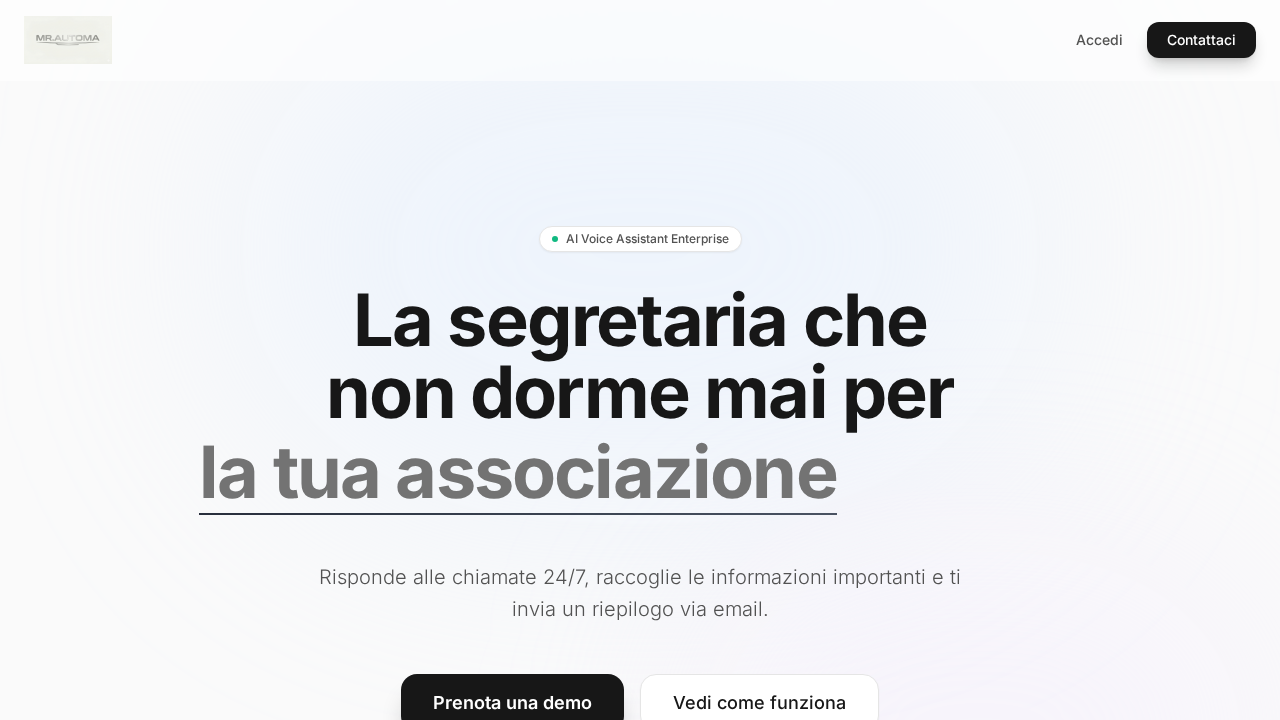
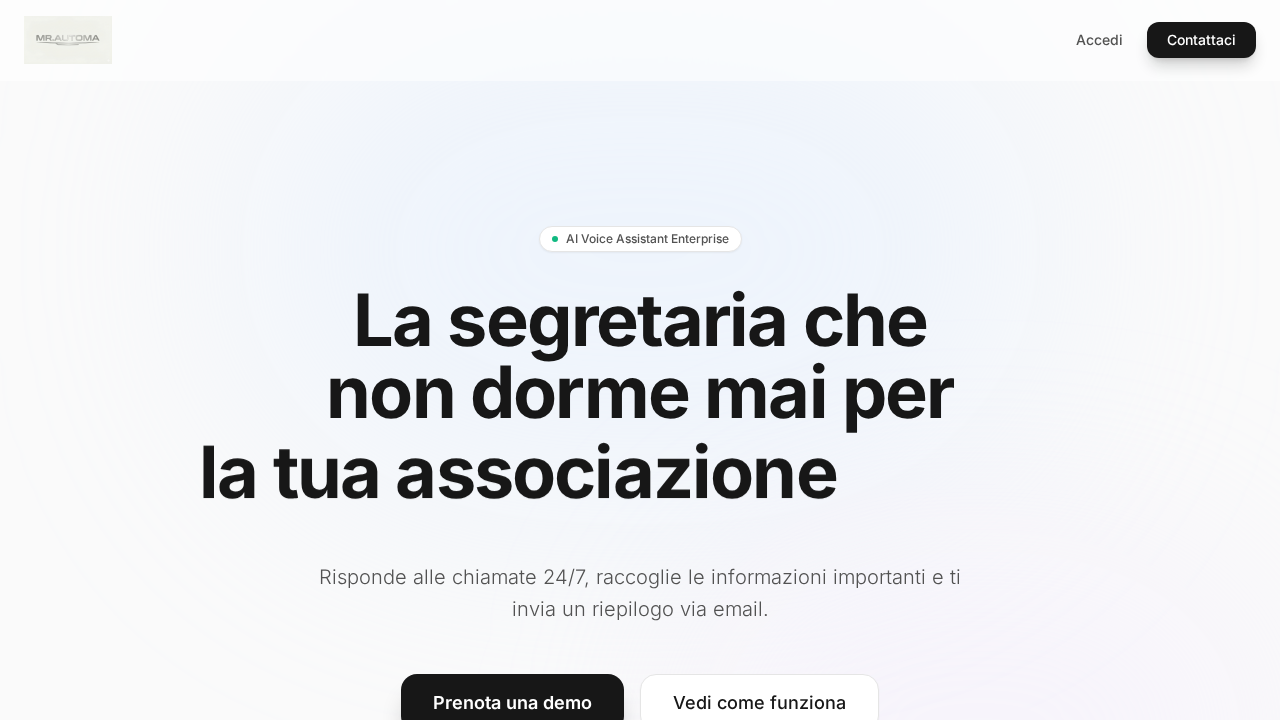
Fix hero rotating phrase + animated underline
- Refactor hero rotator markup to use sibling underline for better alignment.
- Update CSS for rotation and underline animations.
- Rewrite JS logic to handle rotation cycle and reduced motion.

Changed region(s): [[0.1562, 0.6111, 0.6562, 0.7028]]

diff --git a/templates/index.html b/templates/index.html
@@ -59,23 +59,21 @@
         }
 
         /* Hero Rotation */
-        #hero-rotating-phrase.rot-out { transform: translateY(-110%); opacity: 0; }
-        #hero-rotating-phrase.rot-in  { transform: translateY(110%); opacity: 0; }
+        .rotator-text { transform: translateY(0); opacity: 1; }
+        .rot-out { transform: translateY(-110%); opacity: 0; }
+        .rot-in  { transform: translateY(110%); opacity: 0; }
 
-        .underline-anim {
-            position: absolute;
-            left: 0;
+        .rotator-underline{
             bottom: -0.10em;
             height: 2px;
-            width: 100%;
+            opacity: 0.85;
             background: linear-gradient(90deg, #111827, #374151);
             transform: scaleX(0);
             transform-origin: left;
             transition: transform 420ms ease;
-            opacity: 0.9;
         }
 
-        .word-active .underline-anim { transform: scaleX(1); }
+        .underline-on { transform: scaleX(1); }
     </style>
 </head>
 <body class="antialiased selection:bg-neutral-900 selection:text-white">
@@ -147,12 +145,12 @@
                     La segretaria che <br class="hidden md:block" />
                     non dorme mai per
                     <div class="mt-2 block">
-                        <span class="relative inline-block overflow-hidden align-baseline h-[1.15em] w-[18ch] text-left">
+                        <span class="rotator-wrap inline-block align-baseline relative overflow-hidden h-[1.15em] w-[18ch]">
                             <span id="hero-rotating-phrase"
-                                  class="absolute left-0 top-0 transition-all duration-300 ease-out will-change-[transform,opacity] word-active text-neutral-500">
+                                  class="rotator-text absolute left-0 top-0 transition-all duration-300 ease-out will-change-[transform,opacity]">
                                 il tuo studio
-                                <span class="underline-anim"></span>
                             </span>
+                            <span id="hero-underline" class="rotator-underline absolute left-0 right-0"></span>
                         </span>
                     </div>
                 </h1>
@@ -417,44 +415,53 @@
     <!-- Hero Rotation Script -->
     <script>
         document.addEventListener('DOMContentLoaded', () => {
-            const el = document.getElementById('hero-rotating-phrase');
-            if (!el) return;
+            const elText = document.getElementById('hero-rotating-phrase');
+            const elLine = document.getElementById('hero-underline');
+            if (!elText || !elLine) return;
 
             const phrases = ["il tuo studio", "la tua azienda", "la tua associazione"];
             let idx = 0;
 
+            // On first load, add underline-on after 50ms so it animates in.
+            setTimeout(() => {
+                elLine.classList.add("underline-on");
+            }, 50);
+
+            // Respect reduced motion
             if (window.matchMedia('(prefers-reduced-motion: reduce)').matches) {
+                elLine.classList.add("underline-on");
                 return;
             }
 
             setInterval(() => {
-                // 1. Animate Out
-                el.classList.add('rot-out');
-                el.classList.remove('word-active');
+                // 1) Animate Out
+                elText.classList.add("rot-out");
 
                 setTimeout(() => {
-                    // 2. Prepare for In-Animation (Jump to bottom)
-                    el.style.transition = 'none';
-                    el.classList.remove('rot-out');
-                    el.classList.add('rot-in');
-
-                    // 3. Swap Text
+                    // 2) after 320ms:
+                    // set elText.textContent = next phrase
                     idx = (idx + 1) % phrases.length;
-                    el.innerHTML = `${phrases[idx]}<span class="underline-anim"></span>`;
+                    elText.textContent = phrases[idx];
 
-                    // Force reflow
-                    void el.offsetWidth;
+                    // elText.classList.remove("rot-out")
+                    elText.classList.remove("rot-out");
+                    // elText.classList.add("rot-in")
+                    elText.classList.add("rot-in");
 
-                    // 4. Animate In
-                    el.style.transition = '';
-                    el.classList.remove('rot-in');
+                    // retrigger underline: elLine.classList.remove("underline-on")
+                    elLine.classList.remove("underline-on");
 
-                    // 5. Trigger Underline
+                    // 3) next animation frame:
                     requestAnimationFrame(() => {
-                        el.classList.add('word-active');
+                        requestAnimationFrame(() => {
+                            // elText.classList.remove("rot-in")
+                            elText.classList.remove("rot-in");
+                            // elLine.classList.add("underline-on")
+                            elLine.classList.add("underline-on");
+                        });
                     });
 
-                }, 320); // Match CSS duration (~300ms)
+                }, 320);
 
             }, 2400);
         });
